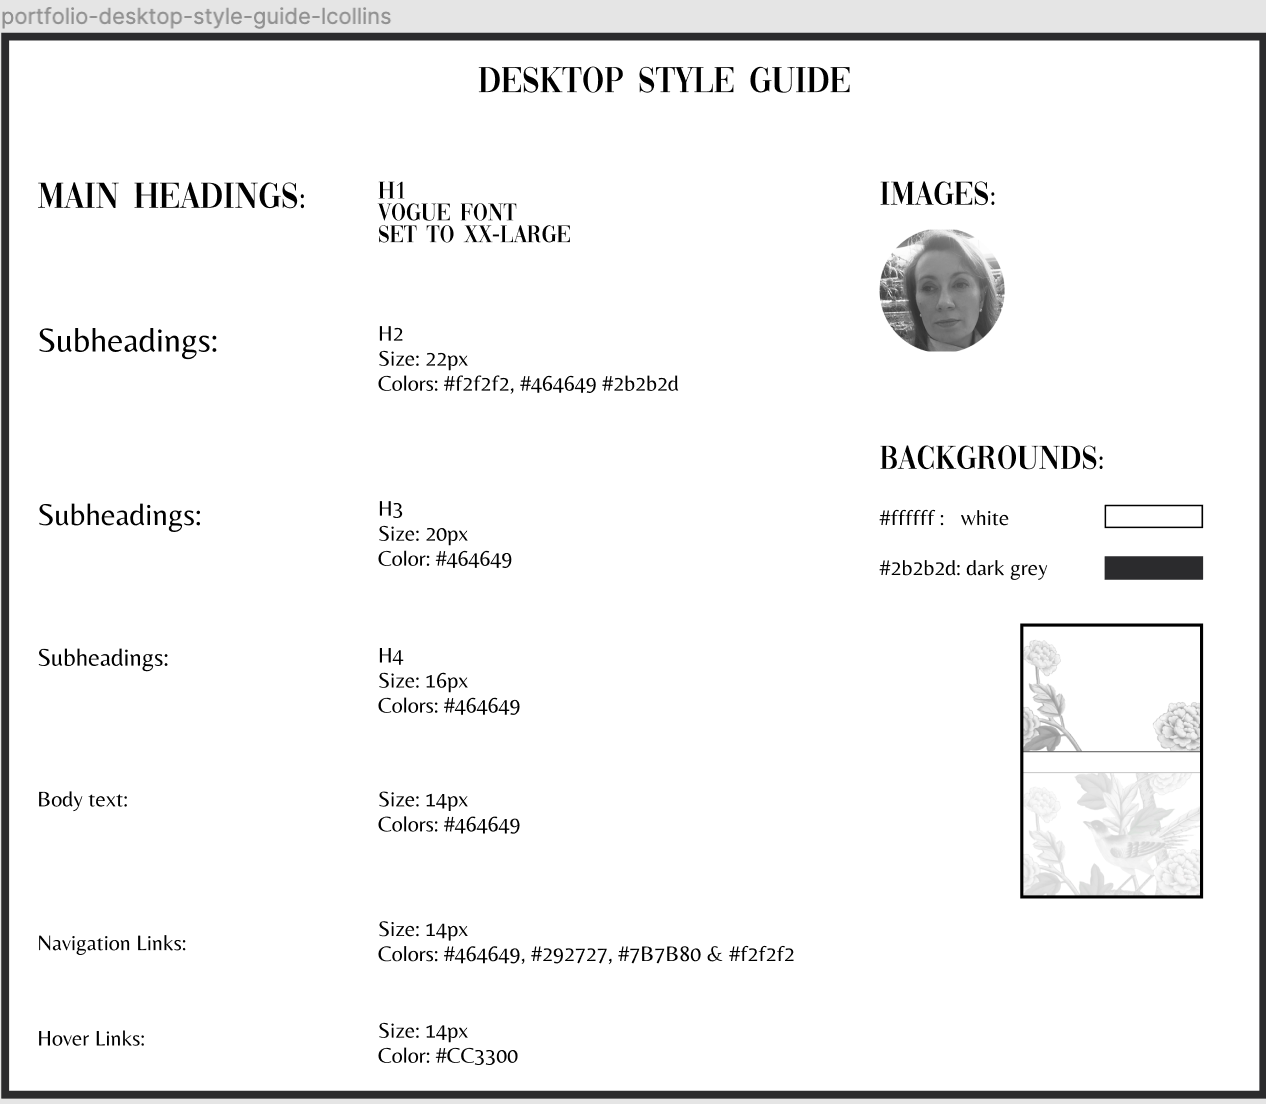
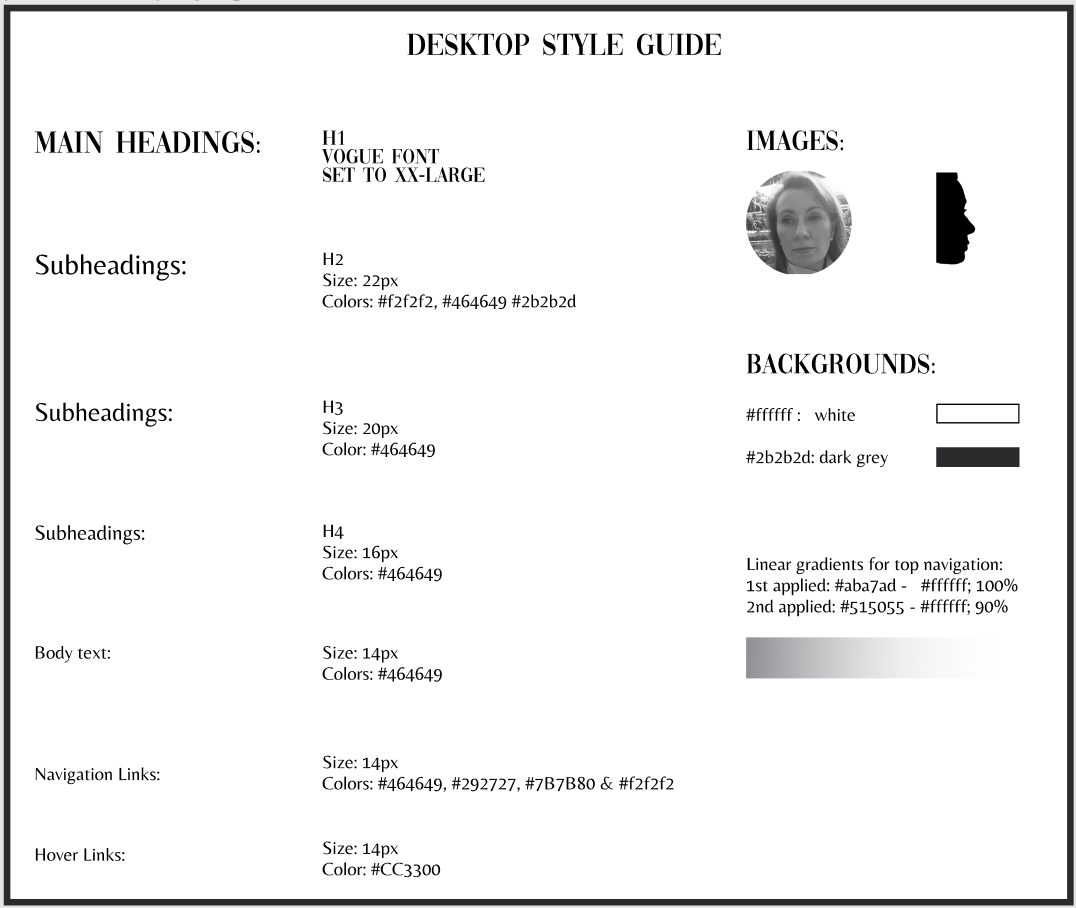
js added animation added images added nav adjusted

diff --git a/css/index.css b/css/index.css
@@ -7,6 +7,19 @@ body {
     font-family: 'Belleza-Regular', sans-serif;
 }
 
+
+
+.header {
+  background-image:url(../images/silhouttelc2.png);
+  background-repeat:no-repeat;
+  height:100px;
+  margin: 0;
+  background-size: cover;
+  z-index: 10;
+  opacity: 0;
+  }
+  
+
 h1 {
     font-family: 'Vogue', sans-serif;
 
@@ -48,16 +61,18 @@ h2 {
 
    .flex-container {
     flex-direction: column;
-  }
-
-   .navigation {
+  }   
+  
+  .navigation {
     font-family:'Belleza-Regular', sans-serif; 
-    height: 50px;
+    height: 100px;
     display: flex;
     align-items: center;
     margin-left: auto;
     border-bottom: thin solid #292727;
     justify-content: flex-end;
+    background-image:url(.../images/silhouttelc2.png);
+    background-repeat:no-repeat;
     
    }
 
@@ -111,12 +126,10 @@ color: #7B7B80;
    }
   
    /*below this is inserting a new css style guide*/
-  
+
    nav {
-    
-    /* font-family: 'Montserrat', sans-serif; */
-    
-    
+    background-image:url(.../images/chheader100.png);
+    background-repeat:no-repeat;
   }
    /* target the class of inline-block below */
   .inline-block {
@@ -193,11 +206,10 @@ color: #7B7B80;
 
 
     .containermyname {
-      /* display: flex; */
-      /* or inline-flex */
+
       justify-content: space-between;
       align-items: flex;
-      width: 85%%;
+      width: 85%;
       flex-direction: row;
     }
 

diff --git a/index.html b/index.html
@@ -10,7 +10,9 @@
 
   gtag('config', 'G-C91SMWBD38');
 </script>
-</head>
+
+
+
 <title>Lee Collins</title>
 <meta name="viewport" content="width=device-width, initial-scale=1">
 
@@ -20,6 +22,11 @@
 <link href="https://fonts.googleapis.com/css2?family=Montserrat:wght@300;400;500;600&family=Raleway&display=swap" rel="stylesheet">
  <link href="css/index.css" rel="stylesheet" type="text/css">
 
+ <script src="https://ajax.googleapis.com/ajax/libs/jquery/3.5.1/jquery.min.js">
+ </script>
+    <script src=“js/index.js”></script>
+</head>
+
 
 <!--
  <img id="myLogo" src="https://leecollins77.github.io/hw19animate/images/ch1.png">
@@ -27,7 +34,6 @@
  <button id="myButton">Fade</button>
 
 -->
-
 
  <style>
   .grid-container {
@@ -78,6 +84,8 @@ a:hover {
 </head>
  
 <body>
+
+  <div class="header">
  
  <nav>
    <div class="navigation">
@@ -97,13 +105,11 @@ a:hover {
 
      <a href="contact.html">Contact</a>
      &NonBreakingSpace; &NonBreakingSpace; &NonBreakingSpace; 
-     &NonBreakingSpace; &NonBreakingSpace; &NonBreakingSpace;
-
-     <a href="testanimate.html">test animation</a>
-     &NonBreakingSpace;
+   
      </div>
    
  </nav>
+  </div>
 
 <table valign="center" width="95%">
   <tr>

diff --git a/about.html b/about.html
@@ -11,6 +11,8 @@
 
   gtag('config', 'G-C91SMWBD38');
 </script>
+
+
 <title>Lee Collins</title>
 <meta name="viewport" content="width=device-width, initial-scale=1">
 
@@ -96,10 +98,7 @@ a:hover {
 
      <a href="contact.html">Contact</a>
      &NonBreakingSpace; &NonBreakingSpace; &NonBreakingSpace; 
-     &NonBreakingSpace; &NonBreakingSpace; &NonBreakingSpace;
-
-     <a href="testanimate.html">test animation</a>
-     &NonBreakingSpace;
+ 
      </div>
    
  </nav>

diff --git a/removedtagsfromhead0227.html b/removedtagsfromhead0227.html
@@ -1,0 +1,7 @@
+<meta name="viewport" content="width=device-width, initial-scale=1">
+
+<link rel="stylesheet" href="https://www.w3schools.com/w3css/4/w3.css">
+
+<link rel="preconnect" href="https://fonts.gstatic.com">
+<link href="https://fonts.googleapis.com/css2?family=Montserrat:wght@300;400;500;600&family=Raleway&display=swap" rel="stylesheet">
+ <link href="css/index.css" rel="stylesheet" type="text/css">

diff --git a/contact.html b/contact.html
@@ -75,10 +75,7 @@
       &NonBreakingSpace; &NonBreakingSpace; &NonBreakingSpace;
       <a href="projects.html">Projects</a>
       &NonBreakingSpace; &NonBreakingSpace; &NonBreakingSpace; 
-      &NonBreakingSpace; &NonBreakingSpace; &NonBreakingSpace;
-      
-      <a href="testanimate.html">test animation</a>
-      &NonBreakingSpace;
+   
       </div>
     
   </nav>

diff --git a/js/testanimatejs.js b/js/testanimatejs.js
@@ -1,4 +1,9 @@
+$(document).ready(function(){
+  $('.header').animate({'opacity':'1'},1000);
+  
+  });
 
+  
 /* var img = document.querySelector("img");
 document.body.classList.add('js-loading');
 img.addEventListener("load", removeLoadingClass);

diff --git a/resume3.html b/resume3.html
@@ -80,6 +80,7 @@
 <body>
 
 
+  
   <nav>
     <div class="navigation">
     <a href="index.html">Home</a>
@@ -102,6 +103,8 @@
       </div>
     
   </nav>
+  
+  
 
 <article class="resume">
   <section class="name"></section>
